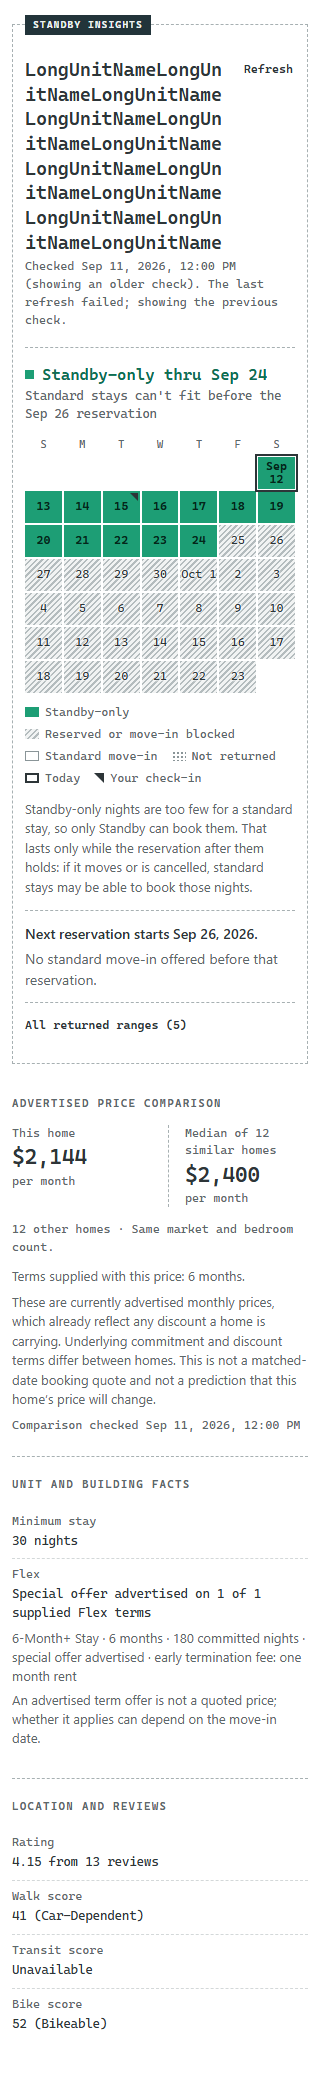
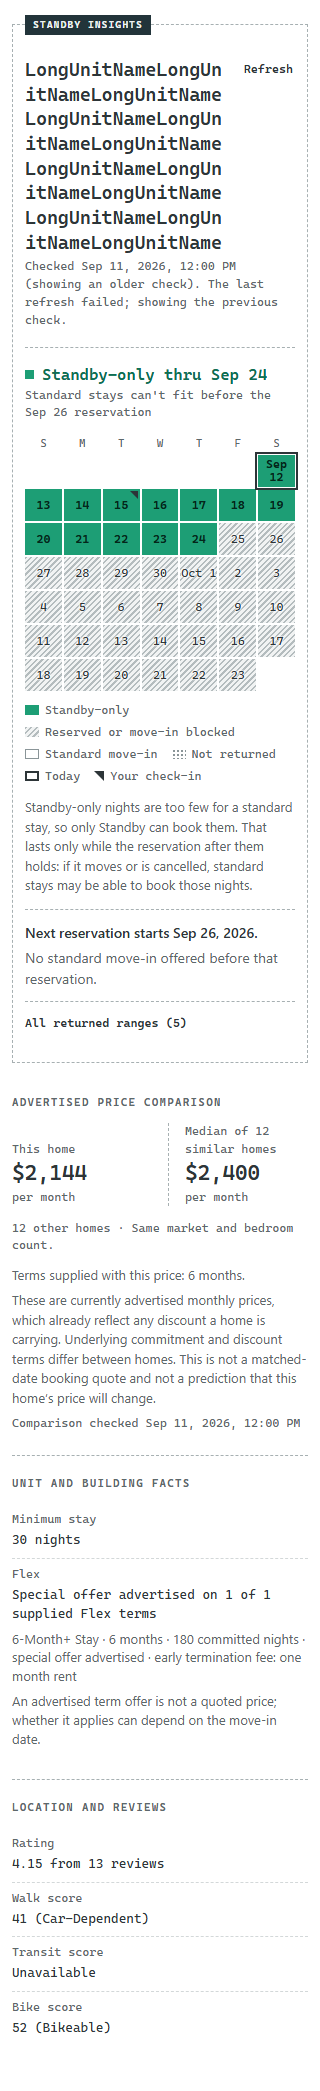
Polish card and panel and record the 26/40 re-critique (#30)
Align panel price figures when a label wraps at narrow widths, drop an
!important on standby-only numerals, merge a duplicated empty-hide rule
in the card CSS, and regenerate the panel review screenshots. Adds the
baseline and re-critique snapshots under .impeccable/critique/.

Closes #30

Changed region(s): [[0.0312, 0.0311, 0.9375, 0.9966]]

diff --git a/src/panel/panel.css b/src/panel/panel.css
@@ -115,7 +115,8 @@ h2 {
   overflow-wrap: normal;
   cursor: default;
 }
-[data-kind="standby-only"] { background: var(--standby-only); color: #04261b; font-weight: 700 !important; }
+[data-kind="standby-only"] { background: var(--standby-only); color: #04261b; }
+#calendar-grid [data-kind="standby-only"] { font-weight: 700; }
 [data-kind="reserved"], [data-kind="blocked"] { background: var(--hatch); }
 /* Numerals stay legible over hatch and dots. */
 #calendar-grid [data-kind="reserved"], #calendar-grid [data-kind="blocked"], #calendar-grid [data-kind="not-returned"] { text-shadow: 0 0 2px #fff, 0 0 2px #fff, 0 0 3px #fff; }
@@ -144,13 +145,16 @@ h2 {
   color: var(--on);
   font: 500 12px/1.3 var(--mono);
   cursor: pointer;
-}#all-ranges summary:hover { text-decoration: underline; text-underline-offset: 3px; }
+}
+#all-ranges summary:hover { text-decoration: underline; text-underline-offset: 3px; }
 #all-ranges summary:focus-visible { outline: 2px solid var(--on); outline-offset: 2px; }
 #all-ranges-list { margin: 0; padding: 0; list-style: none; font: 12px/1.5 var(--mono); }
 #all-ranges-list li { padding: 6px 0; border-top: 1px dashed #d3d8d9; }
 
-#comparison-prices { display: grid; grid-template-columns: repeat(2, minmax(0, 1fr)); gap: 16px; margin-bottom: 14px; }
-#comparison-prices > div { min-width: 0; }
+/* Each column shares the grid's rows, so a wrapped label never pushes one figure below the other. */
+#comparison-prices { display: grid; grid-template-columns: repeat(2, minmax(0, 1fr)); gap: 0 16px; margin-bottom: 14px; }
+#comparison-prices > div { display: grid; grid-row: span 3; grid-template-rows: subgrid; align-content: start; min-width: 0; }
+#comparison-prices dt { align-self: end; }
 #comparison-prices > div + div { border-left: 1px dashed var(--outline); padding-left: 16px; }
 #comparison-prices dt, #comparison-prices dd:last-child { color: var(--on-2); font: 12px/1.45 var(--mono); }
 .price-amount { font: 600 26px/1.2 var(--mono); letter-spacing: -.02em; margin: 2px 0; color: var(--on); }

diff --git a/src/content/card-annotations.css b/src/content/card-annotations.css
@@ -53,7 +53,8 @@
 }
 /* The display rules above would otherwise override the hidden attribute. */
 .standby-strip[hidden],
-.standby-evidence .standby-strip-scale[hidden] { display: none; }
+.standby-evidence .standby-strip-scale[hidden],
+.standby-evidence .standby-strip-key[hidden] { display: none; }
 /* Week dividers and today's edge, drawn over the segments. */
 .standby-strip::after {
   content: "";
@@ -114,7 +115,6 @@
   font-size: 11px;
   forced-color-adjust: none;
 }
-.standby-evidence .standby-strip-key[hidden] { display: none; }
 .standby-strip-key > span { display: inline-flex; align-items: center; gap: 4px; }
 .standby-strip-key i { display: inline-block; width: 10px; height: 7px; }
 .standby-strip-key i[data-kind="check-in"] {

diff --git a/.impeccable/critique/2026-09-14T06-42-31Z__src.md b/.impeccable/critique/2026-09-14T06-42-31Z__src.md
@@ -1,0 +1,50 @@
+---
+target: both surfaces (card annotations + side panel)
+total_score: 26
+max_score: 40
+na_heuristics: 
+p0_count: 0
+p1_count: 2
+timestamp: 2026-09-14T06-42-31Z
+slug: src
+---
+# Critique: Standby Insights — card annotations + side panel (src)
+Method: dual-agent (A: design review · B: detector/browser evidence). Score 26/40 (Acceptable), up from 22/40 on 2026-09-13. Run after the #30 polish pass.
+
+| # | Heuristic | Score | Key Issue |
+|---|---|---|---|
+| 1 | Visibility of System Status | 3 | Failed refresh shown only in 12px grey check-time line (panel.js:55); Refresh never disabled during a check |
+| 2 | Match System / Real World | 2 | Spec vocabulary leaks: "window detected", "Not returned", "move-in blocked", "returned calendar" |
+| 3 | User Control and Freedom | 3 | No way to collapse card notes |
+| 4 | Consistency and Standards | 3 | Panel legend static vs card key dynamic; "similar homes" vs "other homes" |
+| 5 | Error Prevention | 3 | Reserved and move-in-blocked share one hatch; card says "No reservation shown" above hatch |
+| 6 | Recognition Rather Than Recall | 3 | Panel check-in is only a 4px corner triangle, never in words (render.js:33,79) |
+| 7 | Flexibility and Efficiency | 2 | No compact mode; per-day detail hover-only outside ranges list; price delta not computed |
+| 8 | Aesthetic and Minimalist Design | 3 | Full key repeated per card (~150px note); four caveat lines under prices |
+| 9 | Error Recovery | 2 | "Check failed / Calendar unavailable" gives no cause; heading loses unit name |
+| 10 | Help and Documentation | 2 | Standby-only explained; "Not returned", "move-in blocked" not |
+
+## Design specificity
+Authored. Card and panel now share one world (dashed unfilled note, dark source tab, mono data, one green, texture-not-hue). Generic spot: the grey fine-print stack under prices.
+Detector: CLI clean (0 findings, src). Browser: panel 1 (flat-type-hierarchy 11–19px at 480, intentional quiet ramp); cards 4 undersized-ui-text on the 10px tab (documented DESIGN.md choice); 19 further hits all belong to Landing's page. Hatch and green not flagged. Contrast: on-2 5.74, tab 11.56, green text 6.23, card marks 3.07; panel hatch #b4bcbe/#f1f3f3 1.73 (documented as lighter; meaning carried by numerals/legend).
+
+## Priority issues
+- [P1] Reserved and move-in-blocked collapsed into one mark; card reads "No reservation shown" over hatch labelled "Reserved or move-in blocked" (card-view.js:81, card-annotations.css:81-85, panel.css:120). Fix: distinct blocked mark + key word, or acknowledge blocked days in the no-reservation line. clarify
+- [P1] Member's check-in not stated in words in the panel (render.js:33, :79); card label already does it. Fix: add to grid aria-label and detail line. harden
+- [P2] Card headlines identical when no gap exists ("No standby-only window detected"); the differentiating reservation is grey (card-view.js:66, six-week-view.js:119). Fix: lead with the known reservation; plainer negative wording. clarify
+- [P2] Failure states are dead ends: no cause, heading falls back to "Standby evidence", refresh-failed looks like a timestamp, Refresh not disabled while checking (render.js:266,282-288,318-326; panel.js:55). harden
+- [P3] Panel legend static: keys for check-in/standby-only when not drawn (panel.html:29-36). Build from drawn kinds as card stripKey does. distill
+
+## Persona red flags
+Alex: key repeated per card, no collapse, identical headlines, no price delta.
+Sam: panel check-in not in words; panel tab attribution is ::before (panel.css:41); card button target ~24px; per-cell title hover-only.
+Unread member: jargon (Not returned, check date, move-in blocked); reserved/blocked vs "No reservation shown" looks contradictory; Sep 25 hatched vs reservation starting Sep 26 unexplained.
+
+## Minor
+Long spaceless unit name breaks mid-word over 8 lines at 320. Identity note sans vs mono siblings. Card key wraps "Your check-in" alone. Card move-in outline segment reads as empty bar. Stale comment card-annotations.js:104. "thru" still in headlines.
+
+## Resolved since 2026-09-13
+Not-returned dotted + keyed; reservation-on-check-in leads; caveats before grid; card strip keyed with contrast fixes; all ranges via details; unit-named buttons; announcer first-state; surfaces unified; DESIGN.md rewritten; page notice placed + attributed; disclosure gated; empty calendar hidden; "Peer median"/"shown for overlap only" gone.
+
+## Questions
+Should a card with no standby-only nights lead with a negative, or shrink? Does merging reserved and blocked soften a difference members care about? Would one caveat sentence plus details still meet the not-misleading bar? Why does the panel skip the check-in sentence the card spells out?

diff --git a/.impeccable/critique/2026-09-13T06-36-21Z__src.md b/.impeccable/critique/2026-09-13T06-36-21Z__src.md
@@ -1,0 +1,47 @@
+---
+target: both surfaces (card annotations + side panel)
+total_score: 22
+max_score: 40
+na_heuristics: 
+p0_count: 0
+p1_count: 4
+timestamp: 2026-09-13T06-36-21Z
+slug: src
+---
+# Critique: Standby Insights — card annotations + side panel (src)
+Method: dual-agent. Score 22/40 (Acceptable).
+
+| # | Heuristic | Score | Key Issue |
+|---|---|---|---|
+| 1 | Visibility of System Status | 2 | Loading panel shows empty Calendar heading; stale check keeps full-green headline |
+| 2 | Match System / Real World | 2 | Glossary leakage: "(shown for overlap only)", "returned calendar" |
+| 3 | User Control and Freedom | 3 | No way to collapse annotations |
+| 4 | Consistency and Standards | 2 | thru/through; year inconsistency; legend panel-only |
+| 5 | Error Prevention | 3 | Blank days look open; disagreement note renders after grid |
+| 6 | Recognition Rather Than Recall | 2 | Card strip has 6 codes, no key |
+| 7 | Flexibility and Efficiency | 2 | Ranges past day 42 invisible; hover-only detail |
+| 8 | Aesthetic and Minimalist Design | 3 | Disclosure prints when comparison unavailable |
+| 9 | Error Recovery | 2 | "Calendar unavailable" no reason/next step |
+| 10 | Help and Documentation | 1 | No card legend; standby-only never explained |
+
+## Design specificity
+Cards specific (dashed tabbed note). Panel generic dark data-tool form; identity lives in copy. Surfaces don't read as one product. Finish review predates six-week grid; DESIGN.md stale.
+Detector: 6 advisory CLI findings (panel.css:21 #2c5260, panel.css:117/155/167 off-ramp sizes, repeating-stripes hatch, card-annotations.css:63 #fff). Browser: panel 31 (hatch gradient, #5dcaa5 neon — documented, false positives), cards tiny-text x5 (real).
+
+## Priority issues
+- [P1] Not-returned days look like ordinary/open days (panel numerals, card blank ≈ move-in outline). Fix: distinct mark + legend key. harden
+- [P1] Reserved-on-your-check-in hidden in grey detail line under "No standby-only window detected" (card-view.js:19). Fix: lead with reservation. clarify
+- [P1] Caveats after claims: #reference-note after #six-weeks (panel.html:41); stale not in headline; card stale line at bottom. harden
+- [P1] Card strip undecodable + contrast: hatch 1.93:1, 10.5px scale 3.68:1, unexplained triangle, aria-label omits check-in. clarify
+- [P2] Ranges past six weeks uninspectable; title-only detail. Fix: <details> chronological list. harden
+
+## Persona red flags
+Alex: no >6wk ranges, hover-per-cell, identical View evidence buttons, no collapse.
+Sam: buttons lack unit name; ::before attribution; check-in never in words; title-only detail; announcer fires on first delivery (panel.js:117).
+Unread member: no card legend; jargon; standby-only unexplained; negative headline ambiguous.
+
+## Minor
+Notice inserted beforebegin first card link (card-annotations.js:191) — landed inside card on mock; verify live; unattributed. "Not checked yet" after failure (render.js:260); empty CALENDAR on mismatch. 9px tab/11.5px body small. Panel hatch 1.72:1. "Peer median" jargon. DESIGN.md stale.
+
+## Questions
+Why does the most dangerous fact get the least weight? Is a green headline without the "while the next reservation holds" condition softened? Two worlds deliberate? Should the card name the check-in date?
